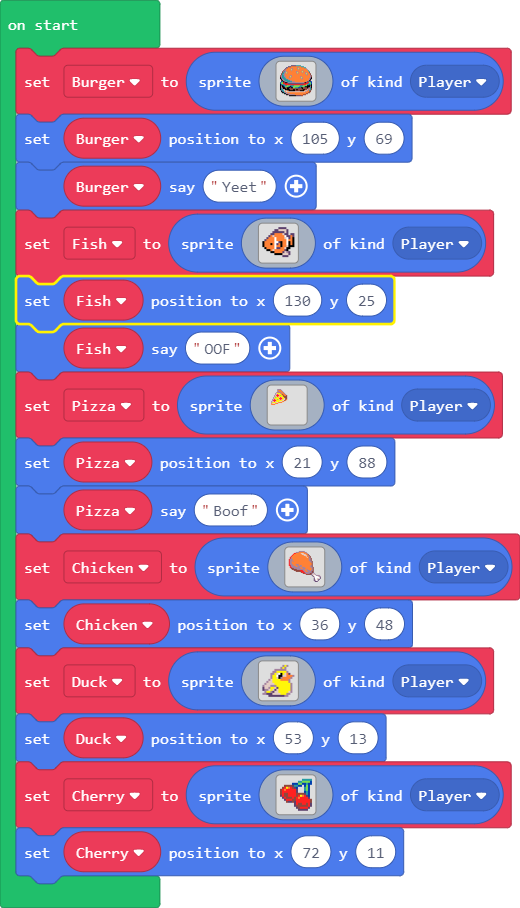
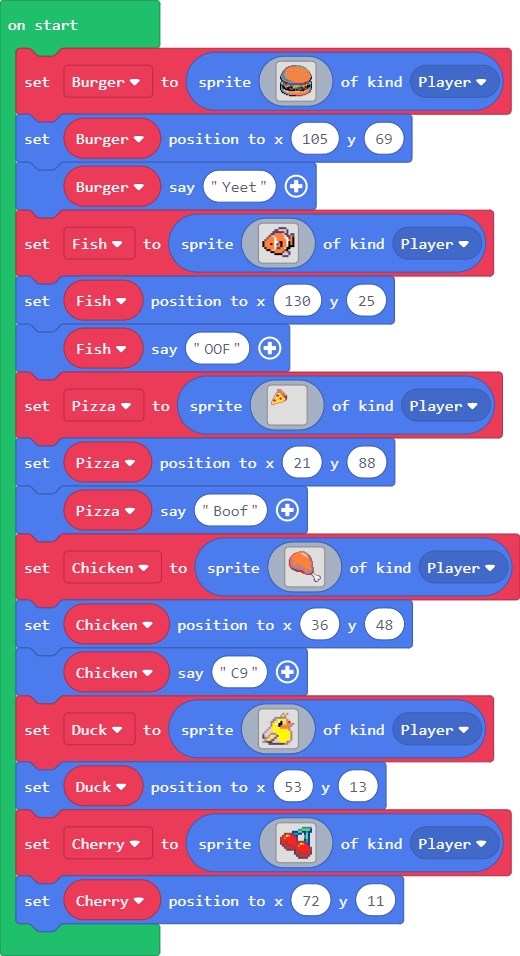
Final Collage

diff --git a/main.ts b/main.ts
@@ -125,6 +125,7 @@ let Chicken = sprites.create(img`
 . . . . . . . . . . . . . . . . . . . . . . . . . . . . . . . . 
 `, SpriteKind.Player)
 Chicken.setPosition(36, 48)
+Chicken.say("C9")
 let Duck = sprites.create(img`
 . . . . . . . . . . b 5 b . . . 
 . . . . . . . . . b 5 b . . . . 
